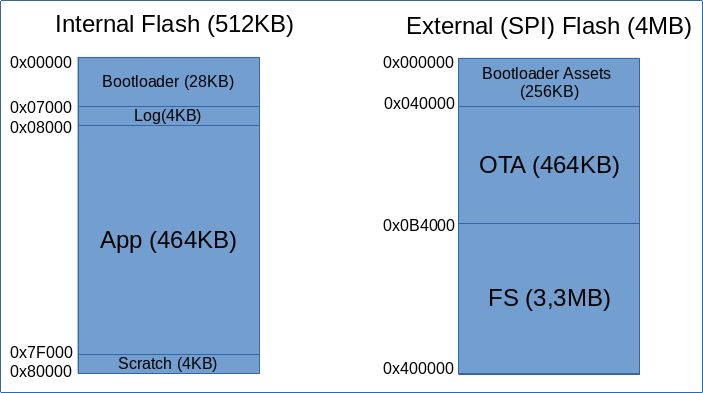
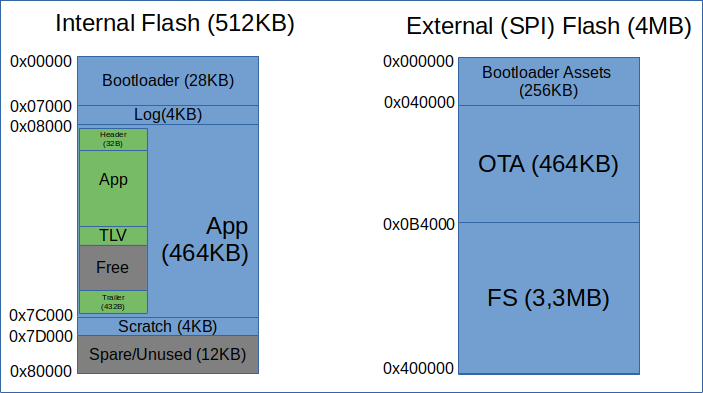
Fix memory map (according to this issue in InfiniTime : https://github.com/InfiniTimeOrg/InfiniTime/pull/1472) and add more information about the sections in the internal memory.

diff --git a/bootloader.md b/bootloader.md
@@ -13,12 +13,17 @@
 ![Memory Map](docs/pictures/memoryMap.png "Memory map")
 
 The PineTime is based on 2 flash memories:
- - **The internal flash** (512KB) : this flash is integrated into the MCU. The MCU runs the code from this memory. It cannot run codes directly from the external SPI flash memory. This internal memory contains the bootloader code as well as the application firmware. The scratch area is used by MCUBoot to swap firmwares from internal and external memories.
+ - **The internal flash** (512KB) : this flash is integrated into the MCU. The MCU runs the code from this memory. It cannot run codes directly from the external SPI flash memory. It contains the following sections:
+   - **Bootloader** (28KB - 0x7000B) : This bootloader.
+   - **Log** (4KB - 0x1000B) : Space reserved for boot/error logs. Not currently useed.
+   - **Application firmware** (464KB - 0x74000B) : application wrapped into a MCUBoot image (header, TLV, trailer).
+   - **Scrach** (4KB - 0x1000B) : the scratch area that allows MCUBoot to swap firmware between the internal and external memories.
+   - **Spare** (12KB - 0x3000B) : a spare and unused area.
  - **The external** flash (4MB) : this memory is external to the MCU and is connected to the MCU using an SPI bus. It contains the recovery firmware (in the section *Bootloader Assets*) and the secondary slot for MCUBoot (*OTA section*). The *FS* part is available for the application firmware.
 
 ## Boot flow
 
-The bootloader is the first piece of software that is running on the PineTime. It's main goal is to load the application firmware. It is also responsible to swap the firmware from the secondary and primary slot if a newer version of the firmware is present in the secondary slot. It also provides the possibility to revert to the previous version of the firmware and to restore a recovery firmware that supports OTA.
+The bootloader is the first piece of software that is running on the PineTime. Its main goal is to load the application firmware. It is also responsible to swap the firmware from the secondary and primary slot if a newer version of the firmware is present in the secondary slot. It also provides the possibility to revert to the previous version of the firmware and to restore a recovery firmware that supports OTA.
 
 ![Boot flow](docs/pictures/workflow.png "Boot flow")
 
